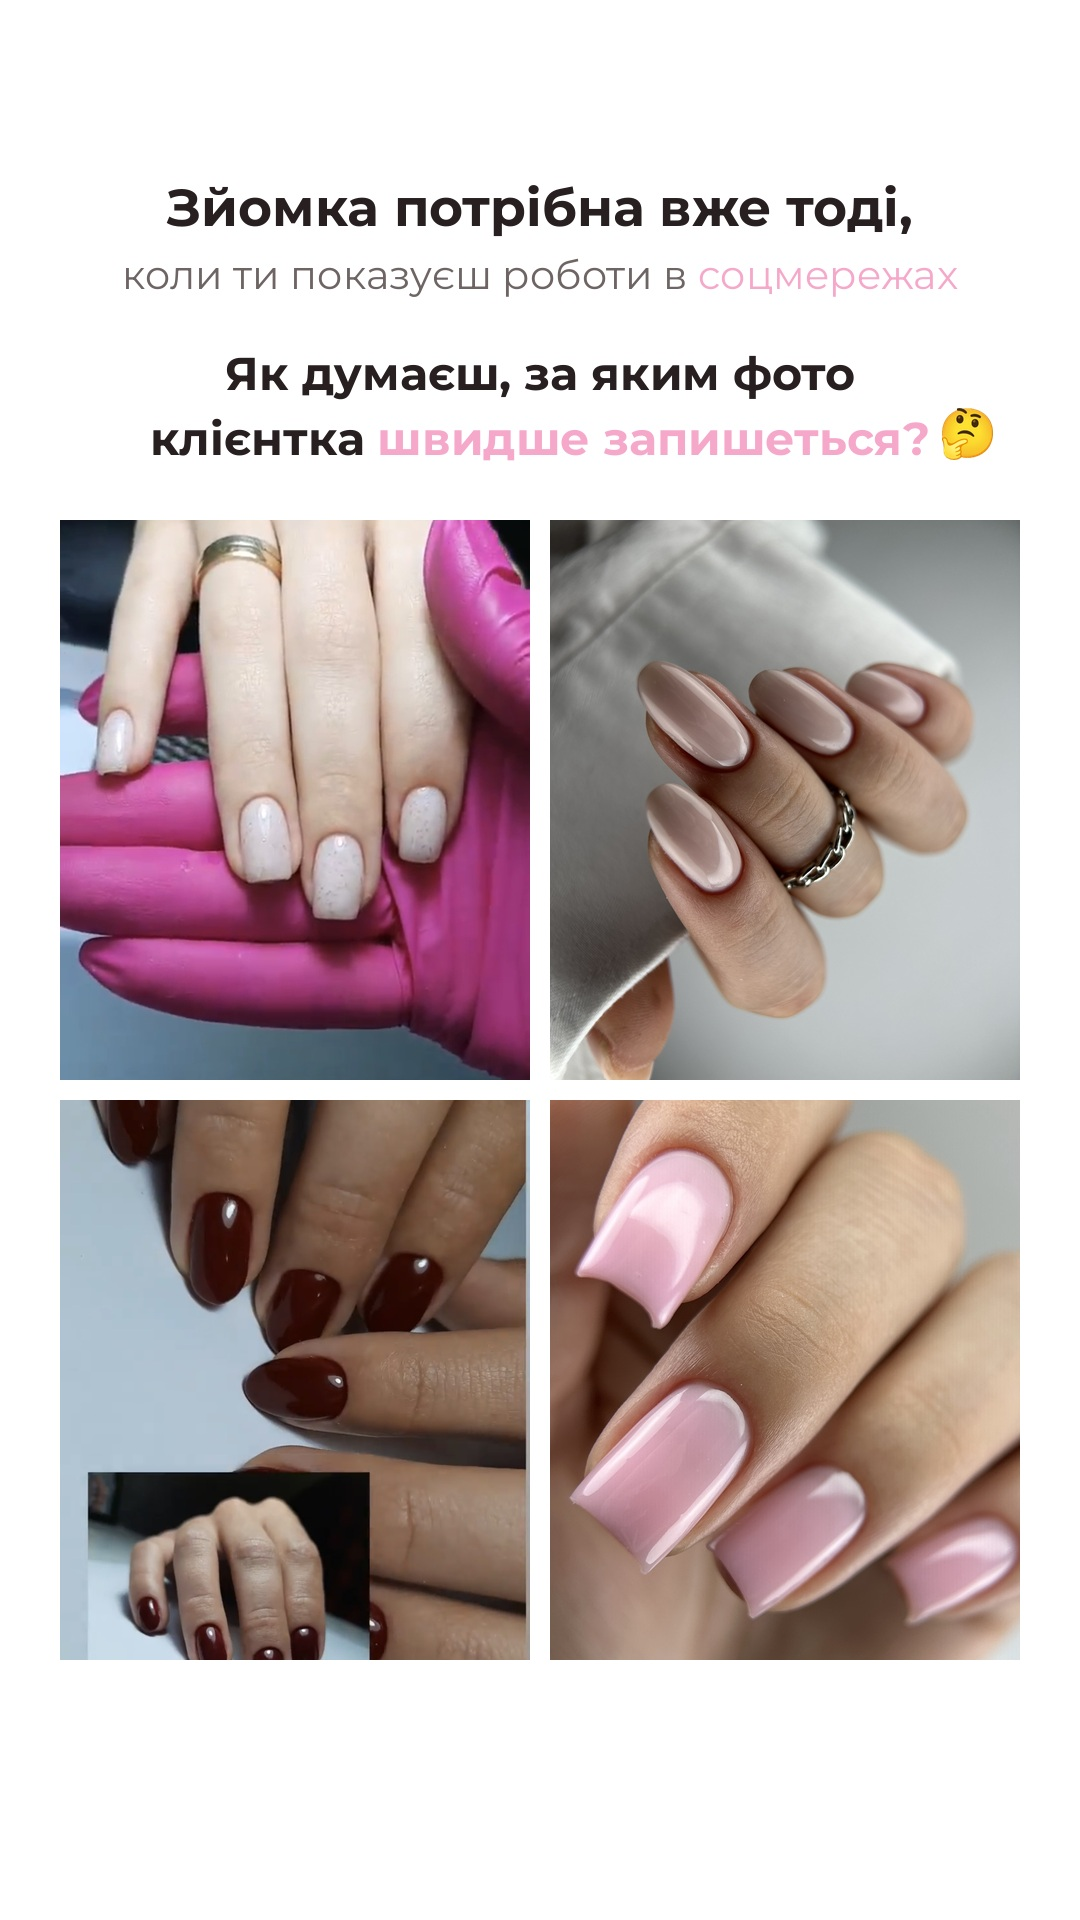
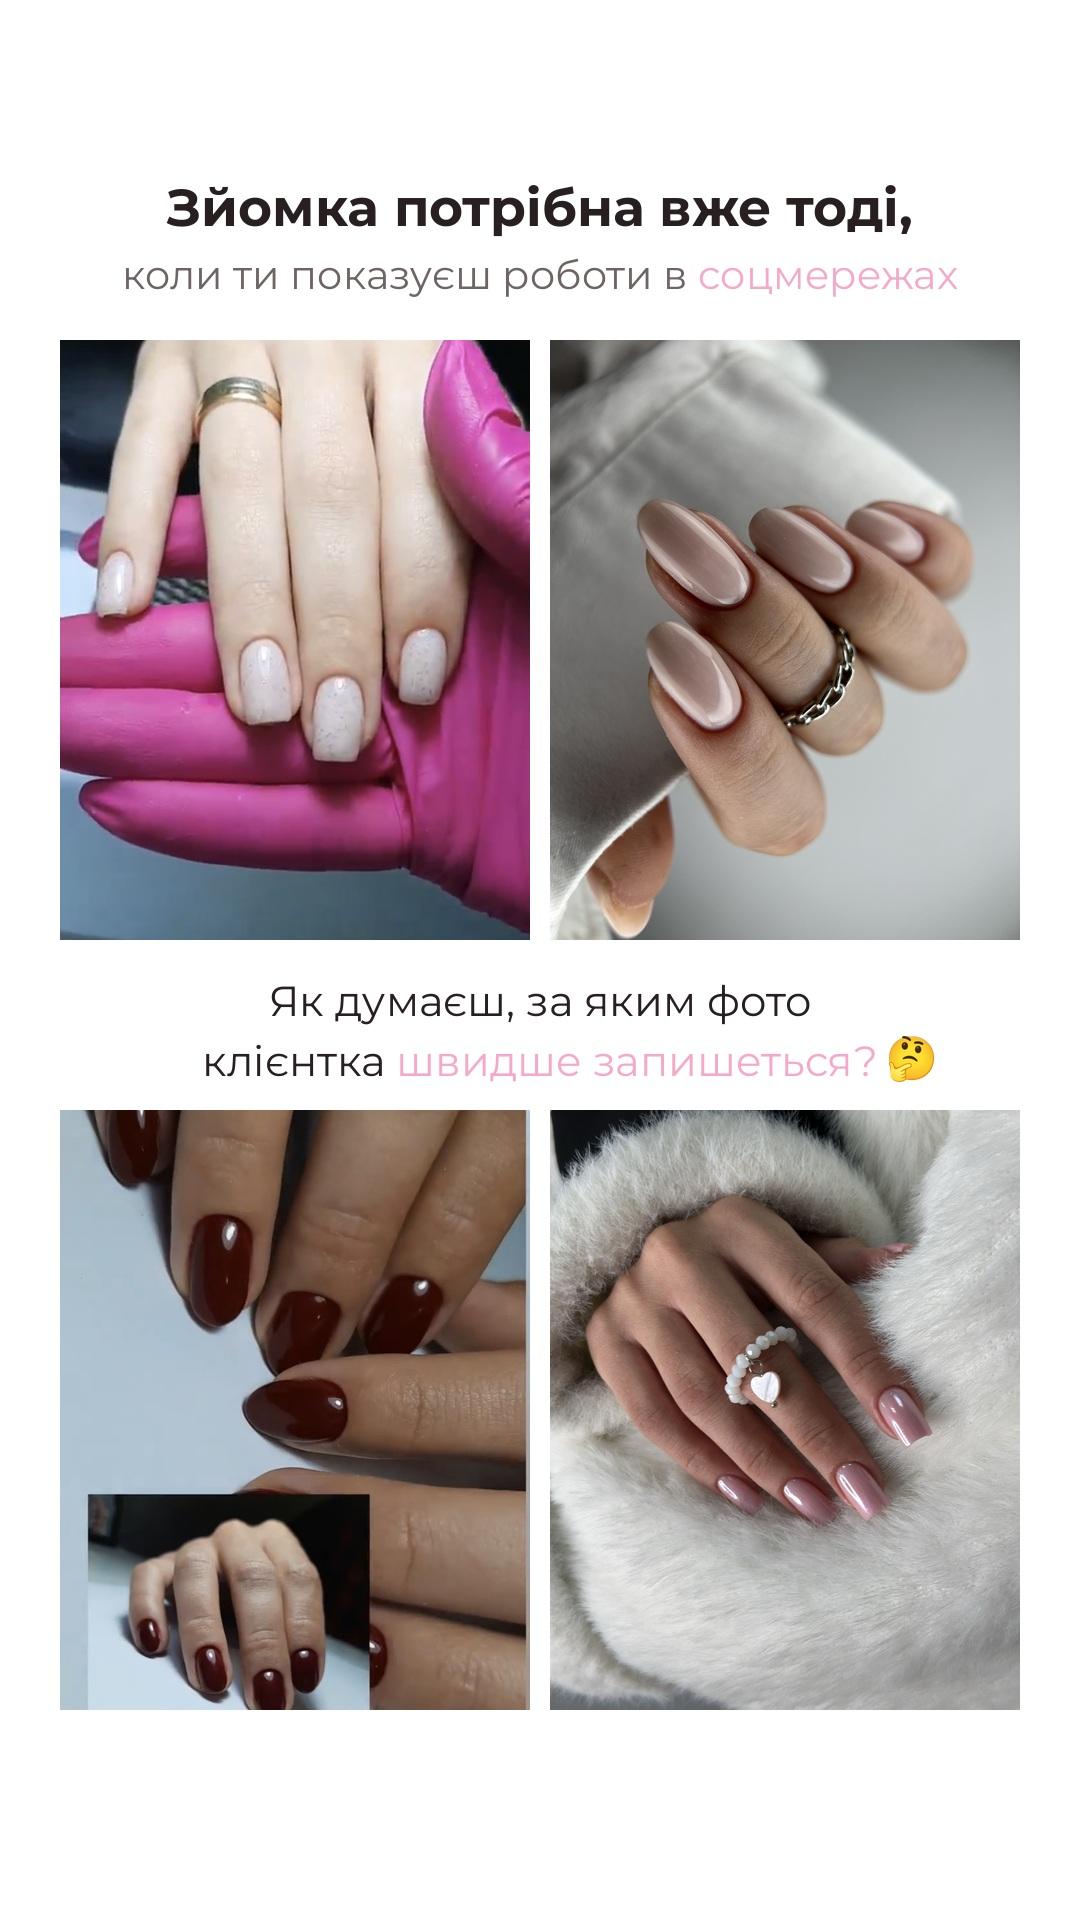
Story 2: question between rows, new aesthetic photo
Claude-Session: https://claude.ai/code/session_0191xVL2hi5vHUvM1ix6pauC

diff --git a/stories/tsinnist_zyomky/build.py b/stories/tsinnist_zyomky/build.py
@@ -20,14 +20,11 @@ def line(y,t,f,col):
     for w,p in T: d.text((x,y),w,font=f,fill=PINK if p else col); x+=d.textlength(w,font=f)+sp
 line(175,'Зйомка потрібна вже тоді,',F(52,700),DK)
 line(250,'коли ти показуєш роботи в *соцмережах*',F(40,400),(110,100,100))
-line(345,'Як думаєш, за яким фото',F(46,700),DK)
-line(410,'клієнтка *швидше запишеться*?',F(46,700),DK)
-e=emoji('🤔',52); c.paste(e,(int(W/2+d.textlength('клієнтка швидше запишеться?',font=F(46,700))/2+12),408),e)
-gw,gh,gap=470,560,20; x0=(W-2*gw-gap)//2; y0=520
-pairs=[('5b8bac7a',0.55,'a9a640c0',0.45),('5f9c00cb',0.3,'0036fad9',0.45)]
-for r,(l,lf,rr,rf) in enumerate(pairs):
-    yy=y0+r*(gh+gap)
-    c.paste(cc(f'{U}/{l}-image.jpg',gw,gh,lf),(x0,yy)); c.paste(cc(f'{U}/{rr}-image.jpg',gw,gh,rf),(x0+gw+gap,yy))
+gw,gh,gap=470,600,20; x0=(W-2*gw-gap)//2
+c.paste(cc(f'{U}/5b8bac7a-image.jpg',gw,gh,0.55),(x0,340)); c.paste(cc(f'{U}/a9a640c0-image.jpg',gw,gh,0.45),(x0+gw+gap,340))
+q=F(42,400); line(975,'Як думаєш, за яким фото',q,DK); line(1035,'клієнтка *швидше запишеться*?',q,DK)
+e=emoji('🤔',46); c.paste(e,(int(W/2+d.textlength('клієнтка швидше запишеться?',font=q)/2+12),1036),e)
+c.paste(cc(f'{U}/5f9c00cb-image.jpg',gw,gh,0.3),(x0,1110)); c.paste(cc(f'{U}/5daf3d0c-image.jpg',gw,gh,0.5),(x0+gw+gap,1110))
 im=c; save(im,2)
 im,_=ctext(fit(f'{U}/a9a640c0-image.jpg'),1380,'Продаючі кадри приводять клієнтів','Красиве фото — це перше враження про твою роботу ще *до запису*',None,shade=130); save(im,3)
 im,_=ctext(fit(f'{U}/10b2af08-image.jpg'),1420,'А відео передає *професіоналізм*','У ньому видно твою техніку, акуратність і процес — і довіри одразу більше',None,shade=120); save(im,4)
